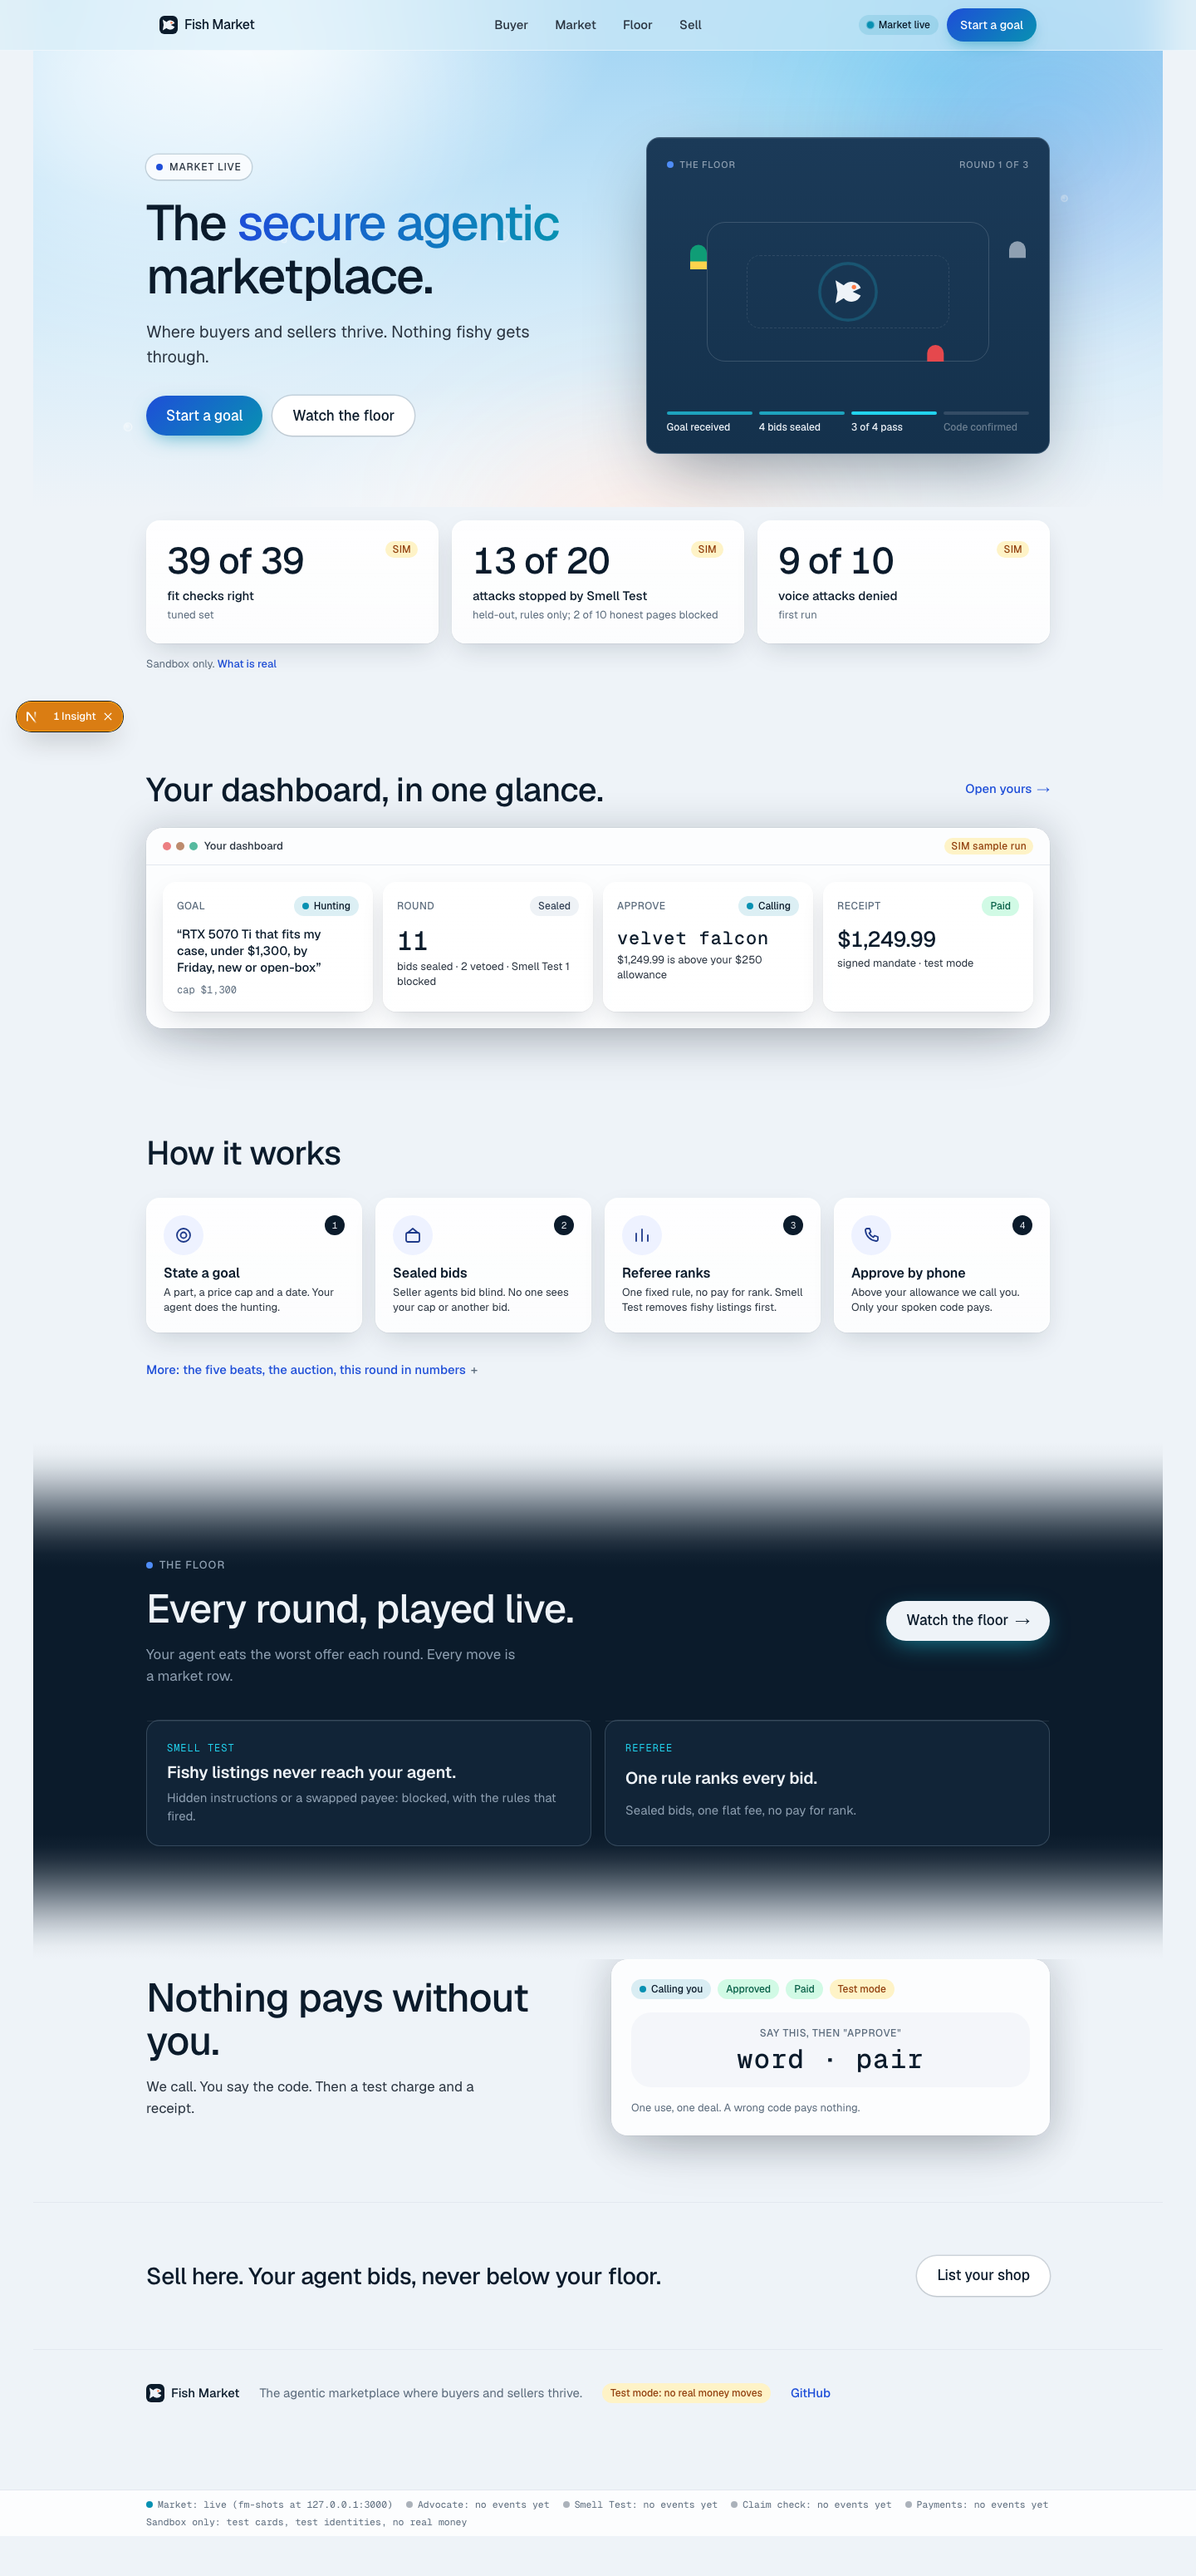
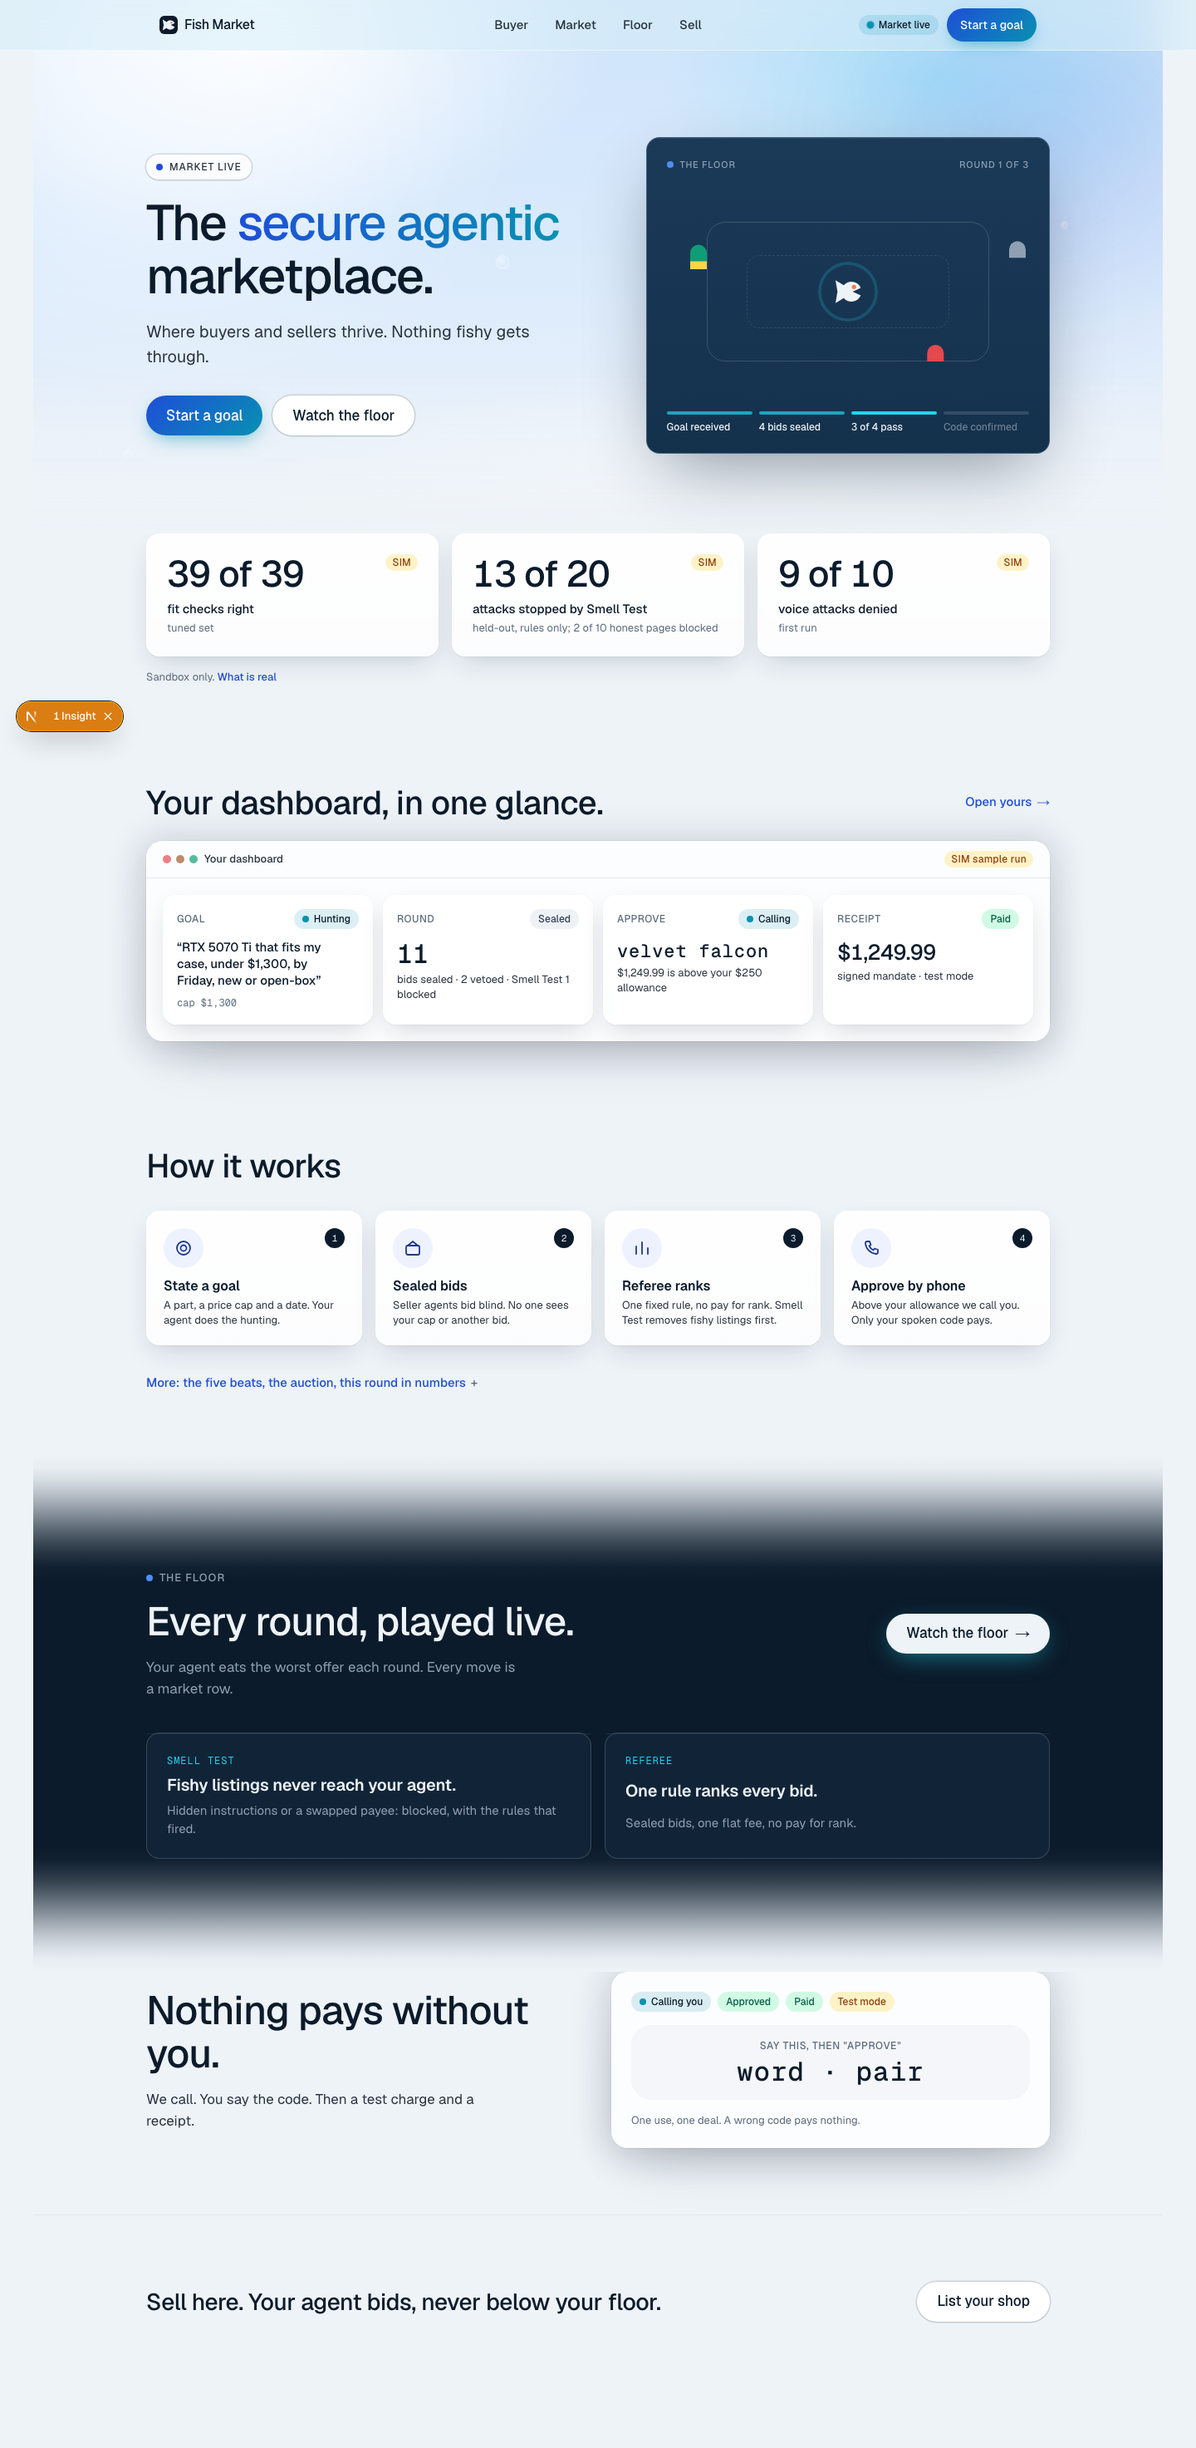
#448 round 9: lighter bluer water, a proper fade under the hero, no footer or status line on the landing
Vidyut's ninth round: the water still did not sit with the page, the hero did not fade into the numbers, and the
landing's footer line (brand, tagline, test-mode chip, GitHub) and the fixed market status line should go.

- Hero: a light blue water gradient ending in the canvas, a bottom fade overlay, and the orb that was clipped at the bottom edge removed
- The landing footer is gone; the sellers line closes the page
- RunModeFooter returns null on the landing only; every app screen keeps its honest status line

diff --git a/web/src/app/page.tsx b/web/src/app/page.tsx
@@ -5,14 +5,13 @@
 import Link from "next/link";
 import type { ReactNode } from "react";
 import { useSpacetimeDB } from "spacetimedb/react";
-import { BrandMark } from "@/components/BrandMark";
 import { DashboardPreview } from "@/components/DashboardPreview";
 import { FloorMini } from "@/components/FloorMini";
 import { HomeMore } from "@/components/HomeMore";
 import { ScrollProgress } from "@/components/ScrollProgress";
 import { OriginChip, README_URL, StatusPill } from "@/components/ui";
 import { proofStats } from "@/lib/scoreboard";
-import { BRAND, SHIELD, SHIELD_LINE, TAGLINE } from "@/lib/brand";
+import { SHIELD, SHIELD_LINE } from "@/lib/brand";
 
 // Measured results, computed from data/scoreboard.json (lib/scoreboard.ts). A test keeps the fixture copy identical to the file.
 const PROOF = proofStats(SHIELD);
@@ -40,15 +39,15 @@ export default function Home() {
       <ScrollProgress />
 
       {/* 1. Hero: the aquarium. */}
-      <section className="relative -mt-[84px] overflow-hidden bg-[linear-gradient(180deg,#9fd3f3_0%,#bfe2f7_38%,#dceef9_72%,#eef3f8_100%)] px-4 pt-[84px] max-sm:-mt-[132px] max-sm:pt-[132px]">
+      <section className="relative -mt-[84px] overflow-hidden bg-[linear-gradient(180deg,#cfe4fb_0%,#d9eafc_45%,#e7f0fa_80%,#eef3f8_100%)] px-4 pt-[84px] max-sm:-mt-[132px] max-sm:pt-[132px]">
+        <div className="pointer-events-none absolute inset-x-0 bottom-0 z-[1] h-48 bg-[linear-gradient(180deg,rgba(238,243,248,0)_0%,rgba(238,243,248,0.6)_55%,#eef3f8_100%)]" aria-hidden />
         <div className="fm-caustic" aria-hidden />
         <div className="fm-orb fm-orb-a left-[-8%] top-[-20%] h-[420px] w-[520px] bg-[rgba(255,255,255,0.55)]" aria-hidden />
-        <div className="fm-orb fm-orb-b right-[-6%] top-[0%] h-[360px] w-[420px] bg-[rgba(30,78,216,0.16)]" aria-hidden />
-        <div className="fm-orb fm-orb-a bottom-[-30%] left-[40%] h-[260px] w-[360px] bg-[rgba(255,122,69,0.12)]" aria-hidden />
+        <div className="fm-orb fm-orb-b right-[-6%] top-[0%] h-[360px] w-[420px] bg-[rgba(30,78,216,0.14)]" aria-hidden />
         {BUBBLES.map((b) => (
           <span key={b.left} className="fm-bubble" style={{ left: b.left, width: b.size, height: b.size, ["--rise" as string]: b.rise, ["--delay" as string]: b.delay }} aria-hidden />
         ))}
-        <div className="relative mx-auto grid max-w-[1120px] items-center gap-10 pb-12 pt-14 md:px-4 md:pb-16 md:pt-20 lg:grid-cols-[1.05fr_0.95fr] lg:gap-16">
+        <div className="relative z-[2] mx-auto grid max-w-[1120px] items-center gap-10 pb-16 pt-14 md:px-4 md:pb-24 md:pt-20 lg:grid-cols-[1.05fr_0.95fr] lg:gap-16">
           <div>
             <span className="inline-flex items-center gap-2 rounded-full bg-surface/70 px-3 py-1.5 text-[12px] font-medium uppercase tracking-[0.08em] text-ink-2 shadow-ring backdrop-blur">
               <span className="dot text-pulse" aria-hidden /> {conn.isActive ? "Market live" : "Sandbox"}
@@ -70,7 +69,7 @@ export default function Home() {
 
       {/* 2. Proof: three boxed numbers with their caveats. */}
       <section aria-label="Measured results" className="px-4">
-        <div className="mx-auto max-w-[1120px] pb-10 pt-2 md:px-4 md:pb-14 md:pt-4">
+        <div className="mx-auto max-w-[1120px] pb-10 pt-0 md:px-4 md:pb-14 md:pt-0">
           <div className="grid gap-4 md:grid-cols-3">
             {PROOF.map((p) => (
               <div key={p.value} className="fm-tile rounded-2xl p-5 md:p-6">
@@ -166,19 +165,11 @@ export default function Home() {
 
       {/* 8. Sellers, footer. */}
       <section aria-label="For sellers" className="border-t border-line px-4">
-        <div className="mx-auto flex max-w-[1120px] flex-wrap items-center justify-between gap-5 py-12 md:px-4 md:py-16">
+        <div className="mx-auto flex max-w-[1120px] flex-wrap items-center justify-between gap-5 py-12 md:px-4 md:py-20">
           <p className="text-[22px] font-medium leading-7 tracking-[-0.015em] md:text-[28px] md:leading-[34px]">Sell here. Your agent bids, never below your floor.</p>
           <Link href="/sell" className="btn inline-flex min-h-12 items-center rounded-xl bg-surface px-6 text-[17px] font-medium text-ink shadow-ring transition-transform motion-safe:hover:-translate-y-0.5 hover:bg-surface-2">List your shop</Link>
         </div>
       </section>
-      <footer className="border-t border-line px-4">
-        <div className="mx-auto flex max-w-[1120px] flex-wrap items-center gap-x-6 gap-y-4 py-10 pb-20 text-[15px] text-muted md:px-4">
-          <span className="inline-flex items-center gap-2 font-medium text-ink"><BrandMark /> {BRAND}</span>
-          <span>{TAGLINE}</span>
-          <StatusPill tone="caution">Test mode: no real money moves</StatusPill>
-          <a href="https://github.com/vs-githjk/cal-hacks-2026" target="_blank" rel="noreferrer" className="font-medium text-pulse">GitHub</a>
-        </div>
-      </footer>
     </div>
   );
 }

diff --git a/web/src/components/shell.tsx b/web/src/components/shell.tsx
@@ -76,10 +76,12 @@ const DOT: Record<ServiceStatus["tone"], string> = { live: "bg-mint-mark", mirro
 
 /** Footer: one honest line about what ran. Each service's dot comes from the origin tags on the floor events it wrote (lib/runMode.ts), never a hardcoded claim. */
 export function RunModeFooter() {
+  const path = usePathname();
   const conn = useSpacetimeDB();
   const live = conn.isActive;
   const [events] = useTable(tables.floorEvent);
   const services = serviceStatuses(events, live);
+  if (path === "/") return null; // the landing has no status line (#448, Vidyut); app screens keep it
   return (
     <footer className="fixed inset-x-0 bottom-0 border-t border-line bg-glass px-4 py-2 font-mono text-[11.5px] text-muted backdrop-blur-xl">
       <div className="mx-auto flex max-w-[1120px] items-center gap-x-4 gap-y-1 overflow-x-auto whitespace-nowrap [scrollbar-width:none] sm:flex-wrap md:px-4">

diff --git a/docs/board/B.md b/docs/board/B.md
@@ -39,3 +39,4 @@ Append your own lines here only: `- [HH:MM] what you did or need | @who`. Each l
 - [06:25] #448 round 6 on PR #450: nav dead centre, header and primary buttons in the water's blue, floor miniature 1.5x, hero fades into the canvas and the floor section fades in and out, proof numbers computed from data/scoreboard.json (fixture kept identical by a test), round tile live from the public round table, tile shadows without lag; web 300 tests, build green | @Vidyut re-review #450
 - [06:55] #448 round 7 on PR #450: nav tabs centred on the header row from 640 px up, water retuned to a sky blue, the seam and gap under the hero closed, status strip in the miniature, floor section fades with eased hex stops inside one background; web 300 tests, build green | @Vidyut re-review #450
 - [07:15] #448 round 8 on PR #450: nav tabs blend into the header (no boxed pill), the blinking dots take the main blue, the floor section's fades shortened to 150 px and the content pulled up; web 300 tests, build green | @Vidyut re-review #450
+- [07:35] #448 round 9 on PR #450: lighter, bluer water with a proper fade into the proof tiles; the landing footer and the fixed status line removed from the home page (app screens keep the status line); web 300 tests, build green | @Vidyut re-review #450
